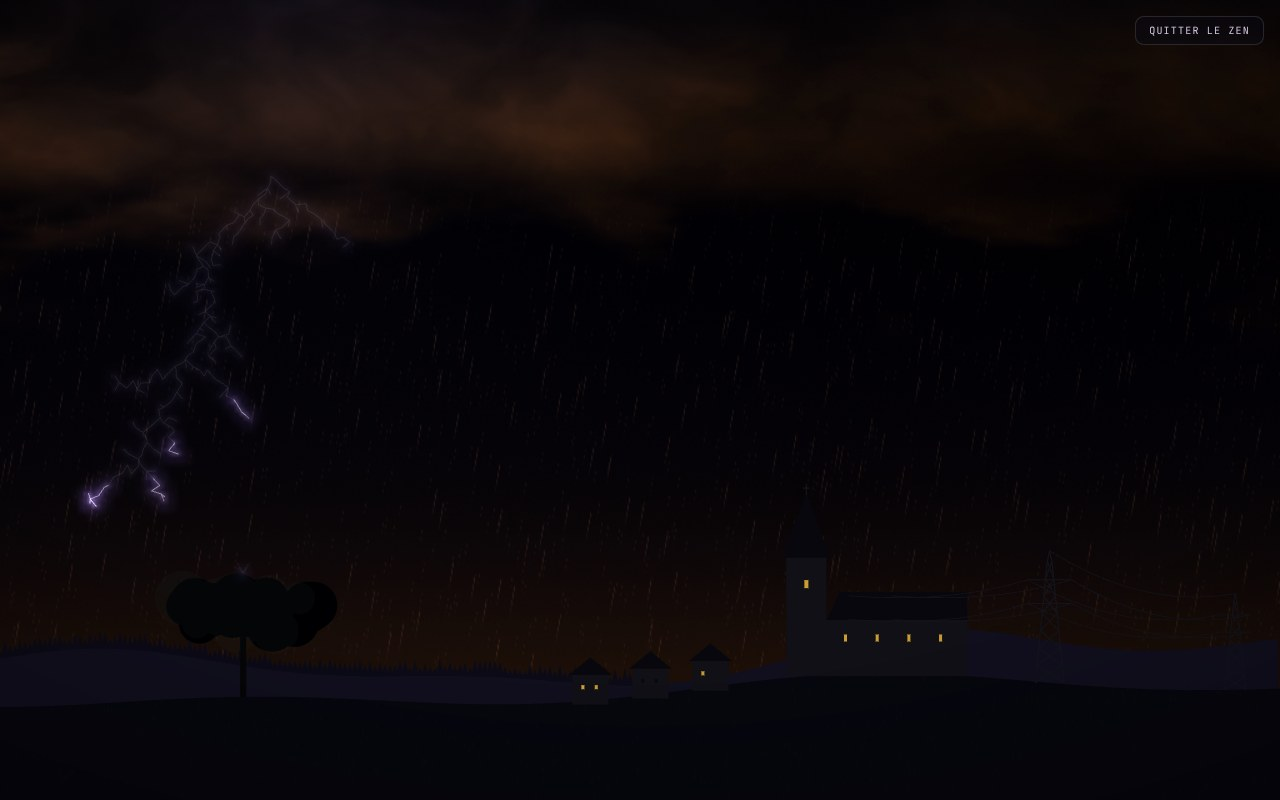
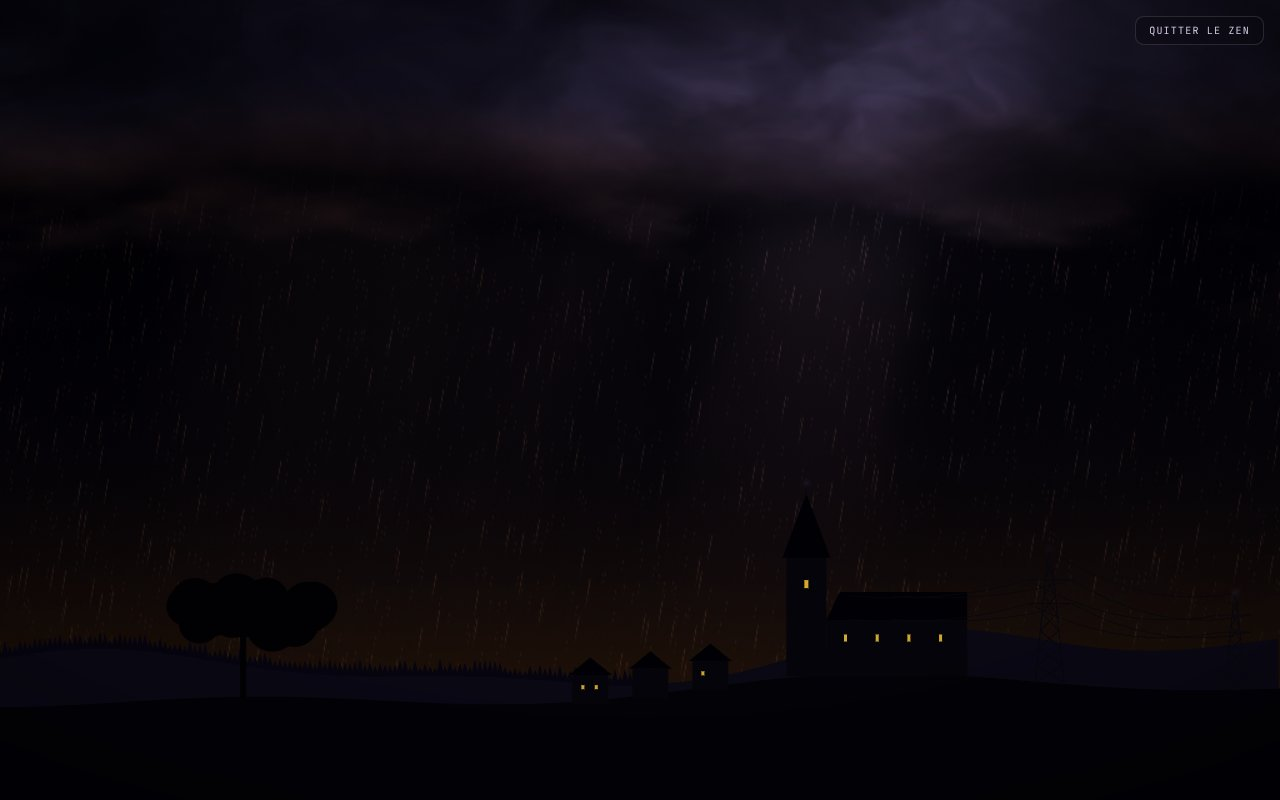
Foudre : nuages éclairés de l'intérieur entre deux coups, orages visibles en haute atmosphère (recette qualité)
Orage : nuages bleu ardoise (fini le brun boue), lueurs intranuageuses
douces (locales, sans effet sur le sol ni sur le voile, atténuées en doux),
rideaux de pluie sous la base. Haute atmosphère : trois cumulonimbus
permanents (colonne, enclume, dôme) allumés par leurs éclairs, couche verte
de l'oxygène en cœur et halo. Globe et bloc de Lichtenberg suivent la partie
visible (panneau fermé), sans effacer une figure en cours.

Claude-Session: https://claude.ai/code/session_01MS9d5JmMjbNw1P1jiRQA2y

diff --git a/app/js/machines/s-foudre.js b/app/js/machines/s-foudre.js
@@ -51,17 +51,31 @@ void main(){
   dens = clamp(dens + scud * .7, 0., 1.);
   vec3 lc = vec3(.78, .76, 1.);
   // dans le nuage, la lumière diffuse : les parties épaisses s'éclairent, les trous restent sombres
-  vec3 cloud = vec3(.026, .028, .040) * (.6 + .8 * n2) + lc * L * (.2 + 1.2 * n2 * n2);
-  // le dessous du nuage reçoit la lueur de la ville : les bourrelets ressortent, les creux restent sombres
-  cloud += ville * (.25 + 1.6 * n2 * n2) * smoothstep(base - .32, base + .02, y);
+  vec3 cloud = vec3(.038, .042, .068) * (.55 + .9 * n2) + lc * L * (.25 + 1.4 * n2 * n2);
+  // seul le bas du nuage reçoit la lueur de la ville (un liseré ambré sur les bourrelets), le corps reste bleu ardoise
+  cloud += ville * (.1 + .9 * n2 * n2) * smoothstep(base - .14, base + .02, y);
   vec3 col = mix(sky + lc * L * .2, cloud, dens);
+  // des rideaux de pluie pendent sous la base : la lueur de la ville et celle des éclairs les font apparaître
+  float sh = smoothstep(.44, .76, fbm5(vec2(x * 2.2 + y * .3 + uT * .012, y * .5 + uT * .02))) * smoothstep(base - .02, base + .1, y) * smoothstep(.98, .4, y) * clamp(uRain, 0., 1.);
+  col = mix(col, vec3(.042, .046, .068) + ville * .3 + lc * L * .7, sh * .45);
   float rn = rainL(px, 3., .9, .3) * .55 + rainL(px + 50., 5., 1.25, .22);
   col += rn * uRain * smoothstep(base - .02, base + .08, y) * (vec3(.035, .04, .05) + ville * .5 + lc * L * .45);
   col += (hash12(px + fract(uT) * 97.) - .5) / 255.;   // tramage : pas de bandes dans les dégradés sombres
   o = vec4(col, 1.);
 }`;
   const FS_ATMO = HEAD + FBM + `
-uniform float uHz, uKm, uGlow, uCurv; out vec4 o;
+uniform float uHz, uKm, uGlow, uCurv; uniform vec4 uSt[3]; out vec4 o;
+// un cumulonimbus vu de côté (km) : une colonne bosselée jusqu'à 11-15 km, l'enclume plate sous la tropopause,
+// étirée par le vent d'altitude, et le dôme qui la perce au-dessus de la colonne
+float cb(float dxk, float h, float q, float n){
+  float H0 = 11. + 4. * q, w = 7. + 3.5 * q;
+  float wc = w * (.7 + .3 * smoothstep(H0, 0., h)) * (.8 + .4 * n);
+  float colm = smoothstep(wc + 1.2, wc - 1.2, abs(dxk)) * smoothstep(-.5, .8, h) * smoothstep(H0 - .3, H0 - 2.2, h);
+  float ax = dxk - w * .9, aw = w * 2.8, ea = clamp(abs(ax) / aw, 0., 1.);
+  float anv = smoothstep(aw + 2.5, aw - 2.5, abs(ax)) * smoothstep(H0 + .3, H0 - .4, h - (n - .5) * .8) * smoothstep(H0 - 4.4 + 2.2 * ea, H0 - 3. + 2.2 * ea, h);
+  float dome = smoothstep(1., .75, length(vec2(dxk / (w * .5), (h - H0 + .4) / 1.7)));
+  return max(max(colm, anv), dome);
+}
 void main(){
   vec2 px = vec2(vUv.x * uRes.x, (1. - vUv.y) * uRes.y);
   float dx = (px.x - uRes.x * .5) / uRes.y;
@@ -80,14 +94,21 @@ void main(){
     col = vec3(.004, .006, .012) + cl * vec3(.028, .032, .042) + city * vec3(.5, .3, .1) * .5 + cl * lc * L * .9;
     col += vec3(.02, .05, .12) * exp(-t * 60.); // la mince couche d'air vue par la tranche
   } else {
-    // sommets d'orage : enclumes jusqu'à 15 km, éclairées de l'intérieur
-    float top = 4. + 11. * clamp(L * 2.5, 0., 1.) + 4. * fbm5(vec2(px.x / uRes.y * 9., 3.));
-    float cd = smoothstep(top, top - 2.5, h) * smoothstep(-1., 1., h);
-    col += cd * (vec3(.02, .022, .03) + lc * L * (.5 + .6 * fbm5(px / uRes.y * 14.)));
     col += vec3(.02, .05, .13) * exp(-h / 6.) * .8;
-    // lueur nocturne de l'oxygène atomique (557,7 nm), ondulée par les ondes de gravité
-    float wv = .75 + .25 * sin(px.x / uRes.y * 22. + uT * .15 + 2.5 * sin(px.x / uRes.y * 4.1 - uT * .05));
-    col += uGlow * vec3(.07, .24, .09) * exp(-pow((h - 95.) / 3.2, 2.)) * wv;
+    // les orages : trois cumulonimbus toujours là, sombres, que leurs éclairs allument de l'intérieur
+    float cl = 0., nn = .5, top = 0.;
+    for (int i = 0; i < 3; i++){
+      float dxk = (px.x - uSt[i].x) / uKm;
+      if (dxk < -40. || dxk > 70.) continue;
+      float n = fbm5(vec2(px.x / uKm * .16 + float(i) * 7.3, h * .3 - uT * .01));
+      float c = cb(dxk, h, uSt[i].y, n);
+      if (c > cl){ cl = c; nn = n; top = smoothstep(7., 15., h); }
+    }
+    // la nuit, le dessus des nuages reçoit un peu de la lueur du ciel ; les éclairs les allument de l'intérieur
+    col = mix(col, vec3(.04, .045, .066) * (.55 + .9 * nn) + vec3(.018, .045, .03) * top + lc * L * (.6 + 1.2 * nn * nn), cl);
+    // lueur nocturne de l'oxygène atomique (557,7 nm) vers 95 km : une couche lumineuse, ondulée par les ondes de gravité
+    float wv = .72 + .28 * sin(px.x / uRes.y * 22. + uT * .15 + 2.5 * sin(px.x / uRes.y * 4.1 - uT * .05));
+    col += uGlow * vec3(.07, .26, .1) * (exp(-pow((h - 95.) / 3.6, 2.)) * wv + .28 * exp(-pow((h - 94.) / 11., 2.)) * (.8 + .2 * wv));
     col += uGlow * vec3(.035, .006, .006) * exp(-pow((h - 150.) / 25., 2.));
     col += lc * L * .25 * exp(-max(h, 0.) / 20.);
   }
@@ -620,10 +641,13 @@ void main(){
 
     /* ───────── figure de Lichtenberg ───────── */
     let blk = null, lich = null;
+    // le bloc se dimensionne sur la partie visible de l'écran (les panneaux latéraux la réduisent)
+    function lichIdeal() { const v = view(), bw = Math.min(v.w * 0.86, H * 1.2), bh = Math.min(H * 0.72, bw * 0.7); return { x0: v.cx - bw / 2, y0: H * 0.5 - bh / 2, w: bw, h: bh }; }
+    const lichStale = () => { if (!blk) return false; const b = lichIdeal(); return Math.abs(b.w - blk.w) > 4 || Math.abs(b.x0 - blk.x0) > 4; };
     function buildLich() {
       const Q = QUAL[cfg.q];
-      const v = view(), bw = Math.min(v.w * 0.86, H * 1.2), bh = Math.min(H * 0.72, bw * 0.7);
-      blk = { x0: v.cx - bw / 2, y0: H * 0.5 - bh / 2, w: bw, h: bh };
+      const bw = lichIdeal().w, bh = lichIdeal().h;
+      blk = lichIdeal();
       const cs = bw / Q.lich;
       const GW = Math.ceil(bw / cs) + 2, GH = Math.ceil(bh / cs) + 2;
       allocGrid(cs, GW, GH, blk.x0 - cs, blk.y0 - cs);
@@ -653,7 +677,11 @@ void main(){
     function stepLich(dt) {
       if (!lich.live) {
         lich.idle += dt;
+        // panneau fermé ou écran tourné : un bloc vide se recalcule tout de suite ; un bloc gravé, au début de la figure suivante
+        // (jamais en effaçant une figure qu'on regarde)
+        if (lich.figs === 0 && lichStale()) { buildLich(); return; }
         if (cfg.lichAuto && lich.idle > (lich.figs ? 7 : 0.4)) {
+          if (lich.figs >= 1 && lichStale()) { buildLich(); return; }
           if (lich.figs >= 1) { etch.g.setTransform(1, 0, 0, 1, 0, 0); etch.g.clearRect(0, 0, etch.c.width, etch.c.height); lich.figs = 0; }
           discharge(blk.x0 + blk.w * rnd(0.7, 0.3), blk.y0 + blk.h * rnd(0.7, 0.3));
         }
@@ -738,6 +766,9 @@ void main(){
     }
     function stepGlobe(dt) {
       globe.cx += (view().cx - globe.cx) * Math.min(1, dt * 3);
+      // la taille suit aussi la partie visible (panneau fermé : le globe grandit doucement)
+      const Rt = Math.min(view().w * 0.42, H * 0.33);
+      globe.R += (Rt - globe.R) * Math.min(1, dt * 3); globe.r0 = globe.R * 0.13;
       const n = Math.round(6 + cfg.tension * 12);
       const F = finger ? (() => { const dx = (finger.x - globe.cx) / globe.R, dy = (finger.y - globe.cy) / globe.R, r2 = dx * dx + dy * dy; if (r2 > 1.05) return null; const z = Math.sqrt(Math.max(0, 1 - Math.min(1, r2))); const l = Math.hypot(dx, dy, z); return [dx / l, dy / l, z / l]; })() : null;
       for (let i = 0; i < n; i++) {
@@ -777,9 +808,24 @@ void main(){
     }
 
     /* ───────── vie autonome ───────── */
+    // lueurs dans le nuage (éclairs intranuageux cachés, trois fois plus fréquents que les coups au sol) : le nuage
+    // s'éclaire de l'intérieur entre deux coups. Lueurs locales et douces (jamais plein écran), et pas d'effet sur le sol.
+    const glows = [];
+    let glowCd = 0.6;
+    function stepGlows(dt) {
+      glowCd -= dt * (0.5 + cfg.act * 0.9) * (env.doux ? 0.6 : 1);
+      if (glowCd <= 0) {
+        glowCd = rnd(1.15, 0.35);
+        const v = view(), np = 1 + rint(2), dur = rnd(0.8, 0.3);
+        glows.push({ x: v.x0 + rnd(0.95, 0.05) * v.w, y: cbY * rnd(0.85, 0.2), r: rnd(0.28, 0.14), a: rnd(0.85, 0.35) * (env.doux ? 0.5 : 1), t: 0, dur, p: Array.from({ length: np }, () => rnd(dur * 0.7, 0)) });
+      }
+      for (let i = glows.length - 1; i >= 0; i--) { glows[i].t += dt; if (glows[i].t > glows[i].dur + 0.8) glows.splice(i, 1); }
+    }
+    const glowI = (g) => { const up = env.doux ? 0.12 : 0.04; let e = 0; for (const p of g.p) if (g.t >= p) e += Math.exp(-(g.t - p) / 0.2) * (1 - Math.exp(-(g.t - p) / up)); return e * g.a; };
     function update(dt) {
       VT += dt;
       if (cfg.scene === 'orage') {
+        stepGlows(dt);
         charge += dt * (0.04 + 0.42 * cfg.act);
         if (charge > thr && !strike) {
           thr = rnd(1.05, 0.7);
@@ -949,6 +995,7 @@ void main(){
       veil += (target - veil) * (!cfg.soft ? 1 : target > veil ? 0.22 : 0.035);
       const kL = tot > 1e-4 ? veil / tot : 0;
       const L2 = lights.map((l) => [l[0], l[1], l[2] * kL, l[3]]);
+      for (const g of glows) { const I = glowI(g); if (I > 0.01) L2.push([g.x, g.y, I, g.r]); }
       if (!bare) {
         if (G) skyGL(G.sky, (P) => P.f('uBase', cbY / H + 0.02).f('uRain', cfg.rain ? 0.5 + cfg.act : 0), L2);
         else sky2D(L2);
@@ -996,7 +1043,8 @@ void main(){
       for (const st of storms) for (const f of st.fl) lights.push([st.x, alt(st.x, 10), f.a * Math.exp(-f.t / 0.08) * (0.7 + 0.3 * Math.sin(f.t * 90)), 0.05]);
       lights.sort((a, b) => b[2] - a[2]);
       if (!bare) {
-        if (G) skyGL(G.atmo, (P) => P.f('uHz', HZ).f('uKm', KM).f('uGlow', cfg.glow ? 1 : 0).f('uCurv', CURV), lights.slice(0, 8));
+        const ST = new Float32Array(12); storms.slice(0, 3).forEach((st, i) => ST.set([st.x, st.q, 0, 0], i * 4));
+        if (G) skyGL(G.atmo, (P) => P.f('uHz', HZ).f('uKm', KM).f('uGlow', cfg.glow ? 1 : 0).f('uCurv', CURV).v4('uSt', ST), lights.slice(0, 8));
         else {
           ctx.fillStyle = '#000'; ctx.fillRect(0, 0, W, H);
           ctx.fillStyle = '#05070c'; ctx.beginPath(); ctx.moveTo(0, H); for (let x = 0; x <= W; x += 8) ctx.lineTo(x, limbY(x)); ctx.lineTo(W, H); ctx.fill();
